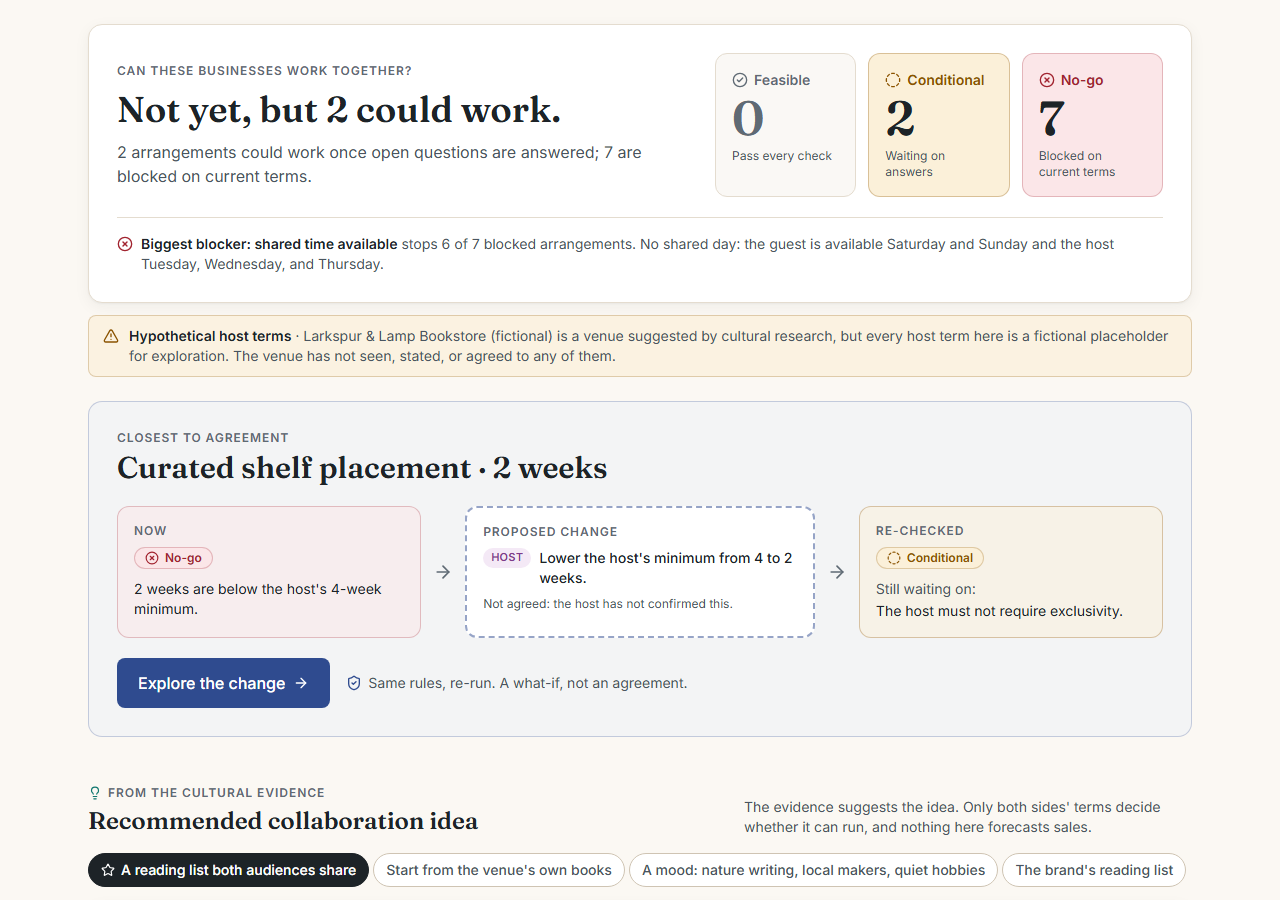
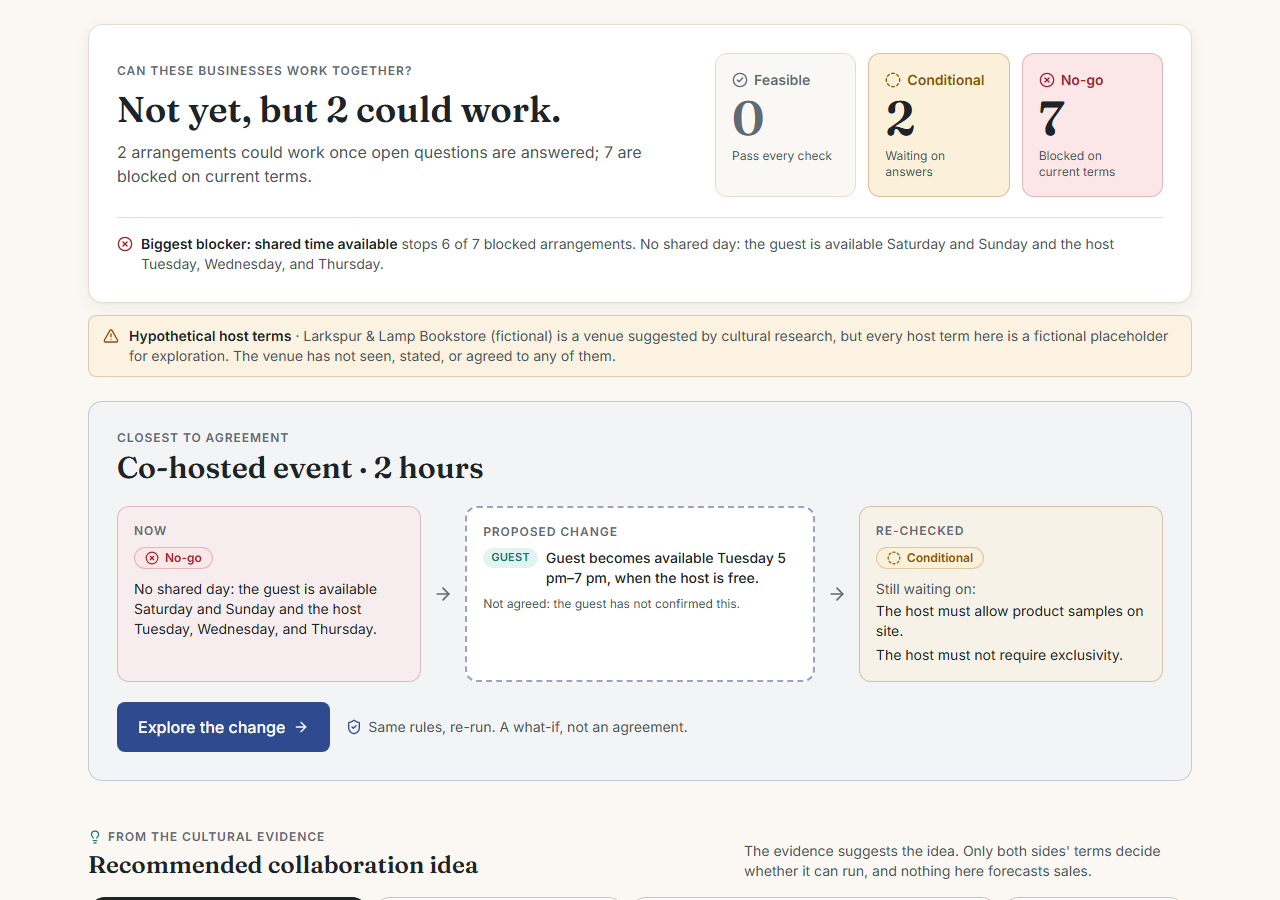
fix: closest-to-agreement choice, Qloo strip counts, and Gemini docs (#3)
* fix(frontier): feature a change that opens a format with nothing working yet

The closest-to-agreement panel and the Reversal default took the engine's first
verified reversal. In the fictional example that lowered the shelf minimum to two
weeks, which only lands where the four-week shelf already is. We now prefer the
first verified reversal whose format has no feasible or conditional variant and
fall back to the first one otherwise. The engine's results and ranking are
unchanged.

Also removes the unused featuredOption helper and refreshes the frontier, ideas,
and reversal screenshots.

* fix(discovery): count only cross-domain titles in the Qloo strip

The recurring and shared taste-signal themes hold tags, not titles. The strip now counts titles from the cross-domain theme only and, when there is none, shows the tag count labelled as taste tags.

* docs(privacy): state that the summary can send budget and fee amounts

The optional summary sends the computed facts shown, which can include outlay, fee, and budget amounts. The planner and baseline never receive names, budgets, or terms, and no feature sends notes, contact details, or host-link data.

* docs(readme): show where each optional Gemini use appears

* docs(readme): describe the bookstore planner default without implying a frequency
[…]

diff --git a/src/shared/domain/headline.ts b/src/shared/domain/headline.ts
@@ -22,21 +22,16 @@ export function blockerSummary(e: ScenarioEvaluation, limit = 2): BlockerSummary
 }
 
 /**
- * The arrangement a first conversation would usually start from: a co-hosted event, the format a
- * cultural theme suits best, choosing the length that fails the fewest checks. Used only to explain
- * results, never to rank them.
+ * The blocked option with the cheapest verified change, which the engine already ranks first. We prefer
+ * one whose format has nothing feasible or conditional yet: unblocking a variant of a format that already
+ * works only lands where that format already is, so it opens no new ground.
  */
-export function featuredOption(e: ScenarioEvaluation): ArrangementOption | null {
-  const fails = (o: ArrangementOption) => o.constraints.filter((c) => c.status === "fail").length;
-  const events = e.options.filter((o) => o.format === "cohosted_event").sort((a, b) => fails(a) - fails(b) || a.variant - b.variant);
-  return events.find((o) => o.status === "no_go") ?? events[0] ?? e.options[0] ?? null;
-}
-
-/** The blocked option with the cheapest verified change, which the engine already ranks first. */
 export function closestToWorking(e: ScenarioEvaluation): { option: ArrangementOption; changes: string[]; statusAfter: string } | null {
-  for (const r of e.reversals) {
+  const open = new Set(e.options.filter((o) => o.status !== "no_go").map((o) => o.format));
+  const verified = e.reversals.flatMap((r) => {
     const option = e.options.find((o) => o.id === r.optionId);
-    if (option && r.minimalChange?.verified) return { option, changes: r.minimalChange.changes.map((c) => c.description), statusAfter: r.minimalChange.statusAfter };
-  }
-  return null;
+    return option && r.minimalChange?.verified ? [{ option, minimal: r.minimalChange }] : [];
+  });
+  const pick = verified.find((v) => !open.has(v.option.format)) ?? verified[0];
+  return pick ? { option: pick.option, changes: pick.minimal.changes.map((c) => c.description), statusAfter: pick.minimal.statusAfter } : null;
 }

diff --git a/src/client/features/discovery/Discovery.tsx b/src/client/features/discovery/Discovery.tsx
@@ -4,7 +4,7 @@ import { useEffect, useRef, useState } from "react";
 import { useLocation } from "wouter";
 import { SEED_KIND_LABELS, VENUE_CATEGORIES, VENUE_CATEGORY_LABELS, type VenueCategory } from "@shared/constants/vocabulary";
 import { STRENGTH_LABELS, affinityText, influenceText } from "@shared/domain/affinity";
-import type { PartnershipCandidate, ResearchRun, ResearchStep, ResearchStepId, Strength } from "@shared/schemas/evidence";
+import type { CulturalTheme, PartnershipCandidate, ResearchRun, ResearchStep, ResearchStepId, Strength } from "@shared/schemas/evidence";
 import type { PlannerDecision } from "@shared/schemas/planner";
 import { ApiRequestError, getConfig, streamResearch } from "../../app/api";
 import { useWorkspace } from "../../app/store";
@@ -349,7 +349,10 @@ export function Discovery() {
 /** Qloo's part in one line of three steps: what went in, what it found, and what it can't say. */
 function QlooStrip({ run }: { run: ResearchRun }) {
   const exact = run.seeds.filter((s) => s.status === "exact").length;
-  const bridged = run.themes.reduce((n, t) => n + t.items.length, 0);
+  // Only the cross-domain theme holds titles; the recurring and shared taste-signal themes hold tags.
+  const countOf = (basis: CulturalTheme["basis"]) => run.themes.filter((t) => t.basis === basis).reduce((n, t) => n + t.items.length, 0);
+  const titles = countOf("cross_domain");
+  const linked = titles > 0 ? { n: titles, one: "title", many: "titles" } : { n: countOf("taste_tags"), one: "taste tag", many: "taste tags" };
   const steps = [
     {
       Icon: Tags,
@@ -363,8 +366,8 @@ function QlooStrip({ run }: { run: ResearchRun }) {
     },
     {
       Icon: Sparkles,
-      value: String(bridged),
-      label: bridged === 1 ? "title linked to them" : "titles linked to them",
+      value: String(linked.n),
+      label: `${linked.n === 1 ? linked.one : linked.many} linked to them`,
       detail: run.themes[0]?.title ?? "no theme",
     },
     {

diff --git a/tests/unit/headline.test.ts b/tests/unit/headline.test.ts
@@ -1,0 +1,30 @@
+import { describe, expect, it } from "vitest";
+import { evaluateScenario } from "../../src/shared/domain";
+import { closestToWorking } from "../../src/shared/domain/headline";
+import { EXAMPLE_SCENARIO } from "../../src/shared/fixtures/example-scenario";
+import { scenario } from "../fixtures/builders";
+
+describe("closestToWorking", () => {
+  it("features a format that has nothing working yet over another variant of one that does", () => {
+    const e = evaluateScenario(EXAMPLE_SCENARIO);
+    // The engine still ranks the 2-week shelf first; it would only land where the 4-week shelf already is.
+    expect(e.reversals[0]?.optionId).toBe("shelf:2");
+    expect(e.options.find((o) => o.id === "shelf:4")?.status).toBe("conditional");
+    const closest = closestToWorking(e);
+    expect(closest?.option.id).toBe("cohosted_event:2");
+    expect(closest?.changes).toEqual(["Guest becomes available Tuesday 5 pm–7 pm, when the host is free."]);
+    expect(closest?.statusAfter).toBe("conditional");
+  });
+
+  it("falls back to the engine's first verified reversal when every blocked format already works", () => {
+    const e = evaluateScenario(scenario({}, { shelfMinWeeks: 4 }));
+    expect(e.options.find((o) => o.id === "shelf:4")?.status).toBe("feasible");
+    const closest = closestToWorking(e);
+    expect(closest?.option.id).toBe("shelf:2");
+    expect(closest?.changes).toEqual(["Lower the host's minimum from 4 to 2 weeks."]);
+  });
+
+  it("returns nothing when no option is blocked", () => {
+    expect(closestToWorking(evaluateScenario(scenario()))).toBeNull();
+  });
+});

diff --git a/tests/e2e/journey.spec.ts b/tests/e2e/journey.spec.ts
@@ -51,7 +51,8 @@ test("complete journey: discovery, frontier, reversal, and brief", async ({ page
   await expect(counts.getByRole("button", { name: /^7 no-go/ })).toBeVisible();
   const closest = page.locator('[aria-labelledby="closest-title"]');
   await expect(closest.getByText("Closest to agreement")).toBeVisible();
-  await expect(closest.getByText("Not agreed: the host has not confirmed this.")).toBeVisible();
+  await expect(closest.getByRole("heading", { name: "Co-hosted event · 2 hours" })).toBeVisible();
+  await expect(closest.getByText("Not agreed: the guest has not confirmed this.")).toBeVisible();
   await expect(closest.getByRole("button", { name: /Explore the change/ })).toBeVisible();
 
   // Every arrangement stays available: a status filter, a compact list, and one focused detail.

diff --git a/docs/privacy.md b/docs/privacy.md
@@ -33,9 +33,10 @@ Your budget, own costs, notes, and priorities are never shared with a host and n
   aggregate and free of personal information. Qloo results are shown to you and kept in your browser; the
   server does not retain them (see [data sources and licensing](data-licensing.md)).
 - **Google Gemini API** (only if the operator enables it and you consent each time) receives only what the table
-  above lists for the feature you chose; never business names for the planner or baseline, and never budgets,
-  costs, notes, contact details, or host-link data. Google's free tier states that submitted content may be used
-  to improve Google's products, which is why consent is required each time.
+  above lists for the feature you chose. The summary sends the computed facts shown on the page, which can include
+  outlay, fee, and budget amounts. The planner and baseline never receive business names, budgets, or terms. No
+  feature sends notes, contact details, or host-link data. Google's free tier states that submitted content may be
+  used to improve Google's products, which is why consent is required each time.
 - **Cloudflare** hosts the app and database.
 
 ## Server records

diff --git a/README.md b/README.md
@@ -99,6 +99,12 @@ whether to widen an empty neighbourhood search), proposes one action from an all
 with the rule's choice as the fallback; and a language-model-only baseline shown beside the Qloo results. A model
 never decides feasibility, fees, or schedules.
 
+To see each one: in Discovery, choose **Let a language model choose research steps** under Research planner, give
+consent, and select **Run research again**; the planner trace marks accepted decisions "model, validated". For
+bookstores, the rules default to a books bridge. The model can propose an alternative, subject to validation. The
+baseline is the **Ask without Qloo data** button in the "What the taste signal changed" card, and the summary is
+**Draft a summary** in the Brief.
+
 ## Architecture
 
 One Cloudflare Worker serves the React app and a Hono API on the Workers Free plan, with a D1 database for private
